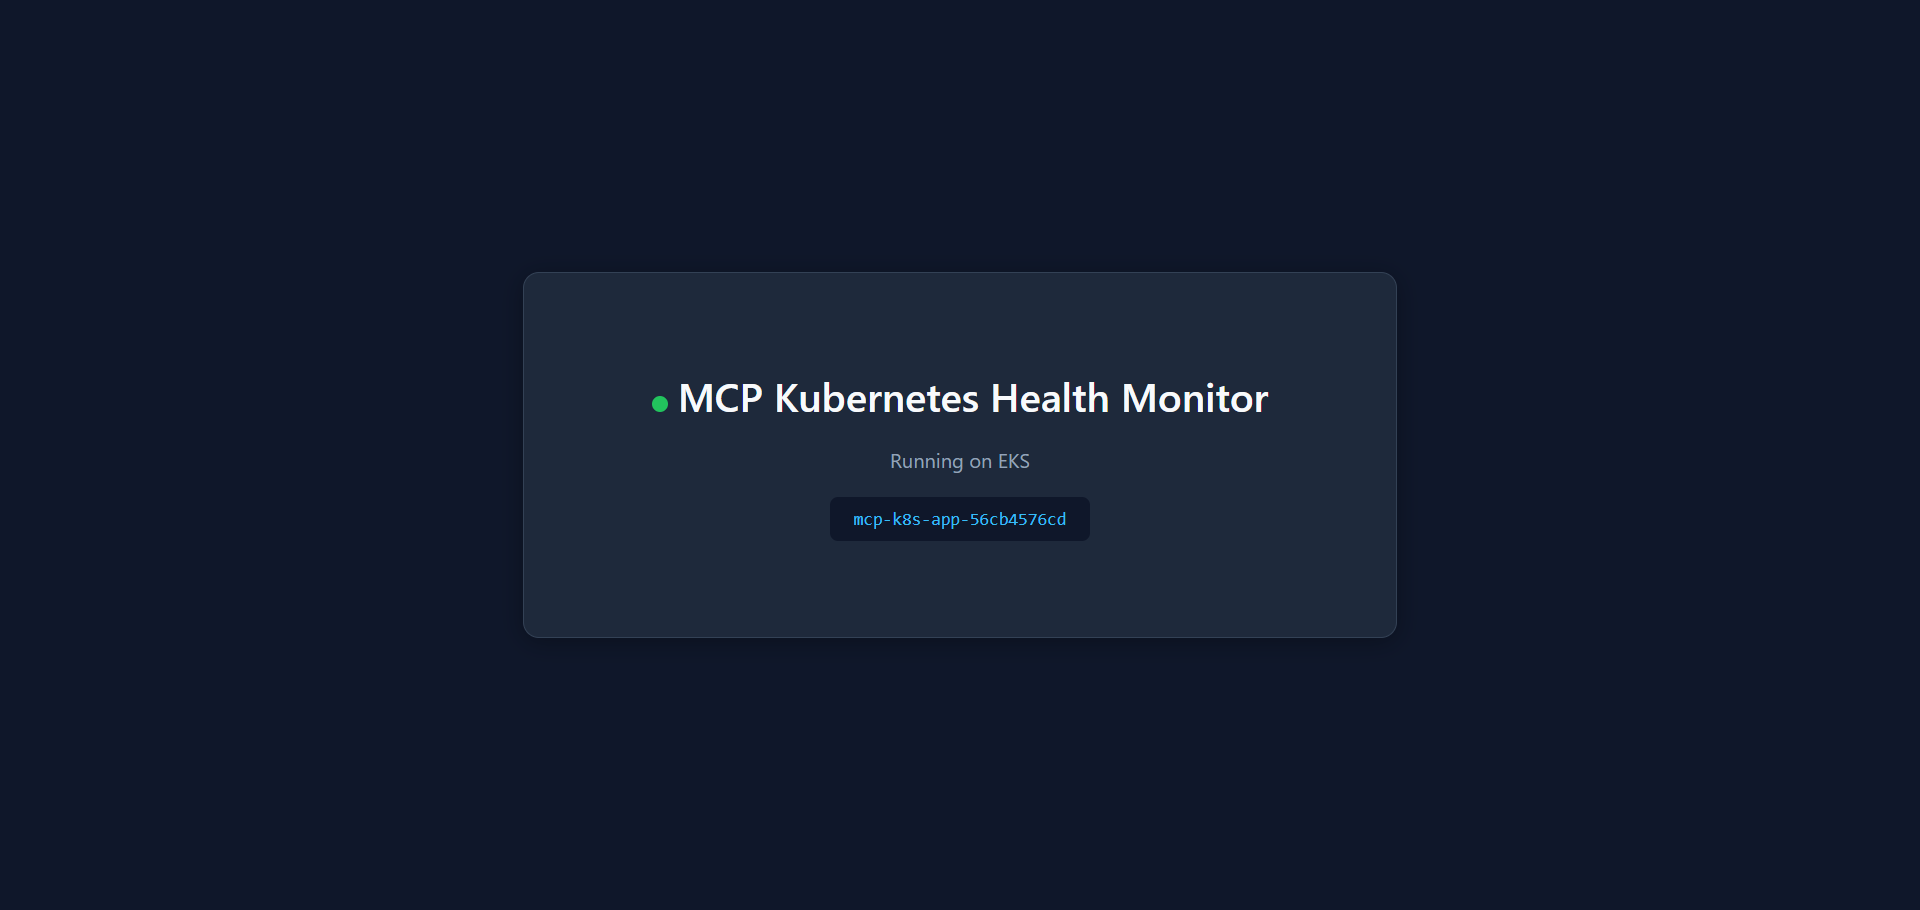
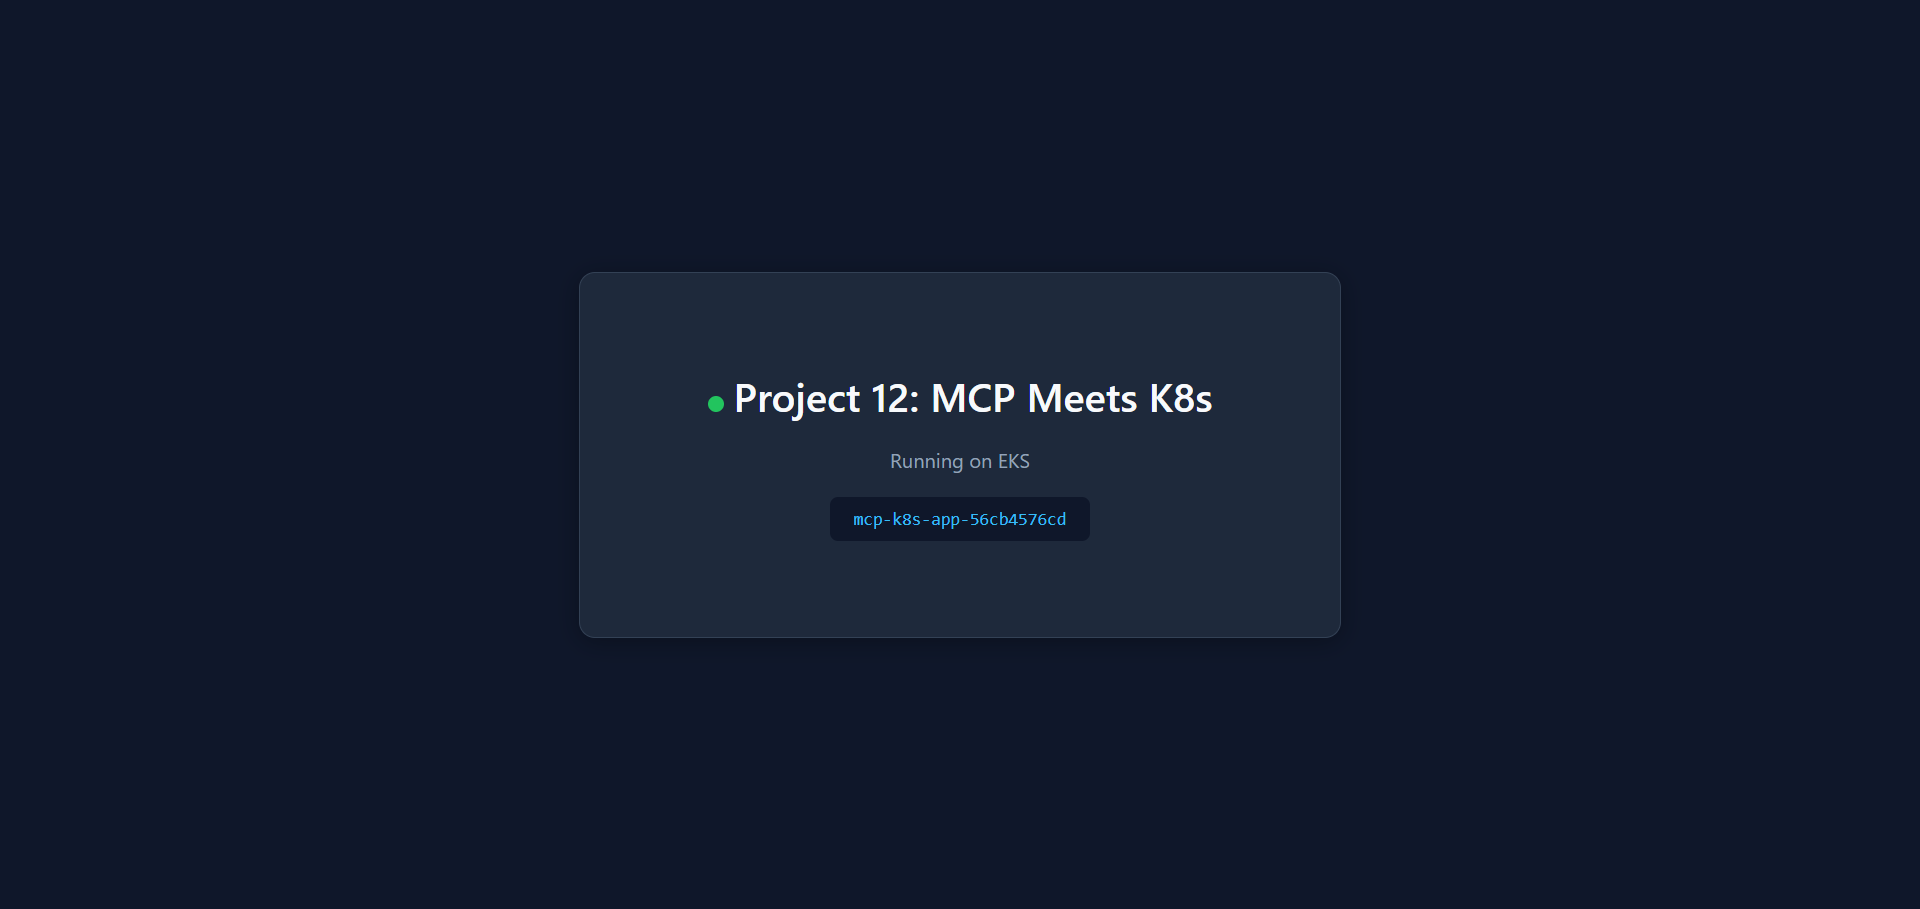
Update

Changed region(s): [[0.3438, 0.4004, 0.6562, 0.462], [0.4688, 0.5545, 0.5625, 0.5853], [0.4688, 0.4928, 0.5312, 0.5237]]

diff --git a/app/index.js b/app/index.js
@@ -9,7 +9,7 @@ app.get('/', (req, res) => {
     <!DOCTYPE html>
     <html>
     <head>
-      <title>MCP Kubernetes Health Monitor</title>
+      <title>Project 12: MCP Meets K8s</title>
       <style>
         * { margin: 0; padding: 0; box-sizing: border-box; }
         body {
@@ -66,7 +66,7 @@ app.get('/', (req, res) => {
     </head>
     <body>
       <div class="card">
-        <h1><span class="status-indicator"></span>MCP Kubernetes Health Monitor</h1>
+        <h1><span class="status-indicator"></span>Project 12: MCP Meets K8s</h1>
         <p class="info">Running on EKS</p>
         <div class="pod">${POD_NAME}</div>
       </div>
